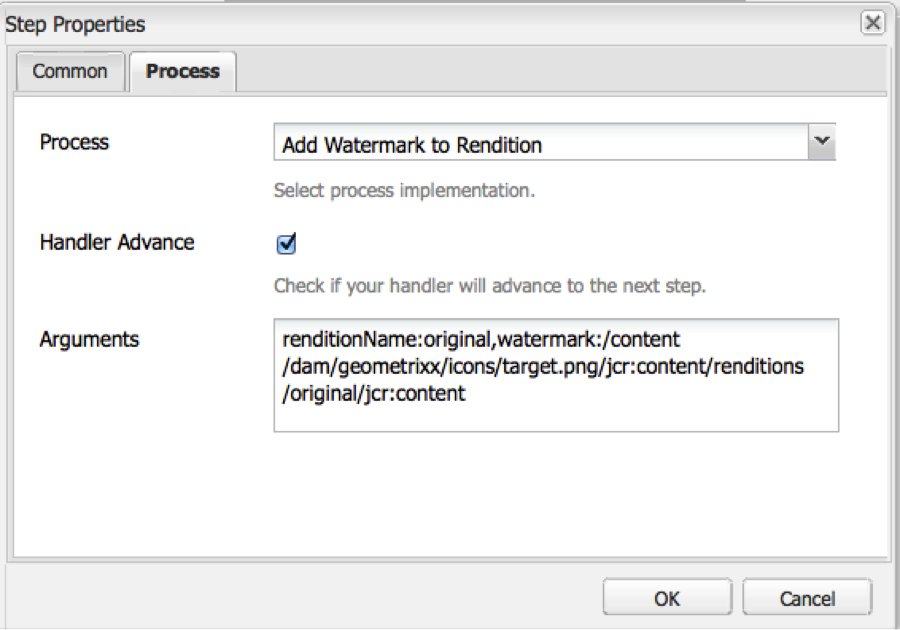
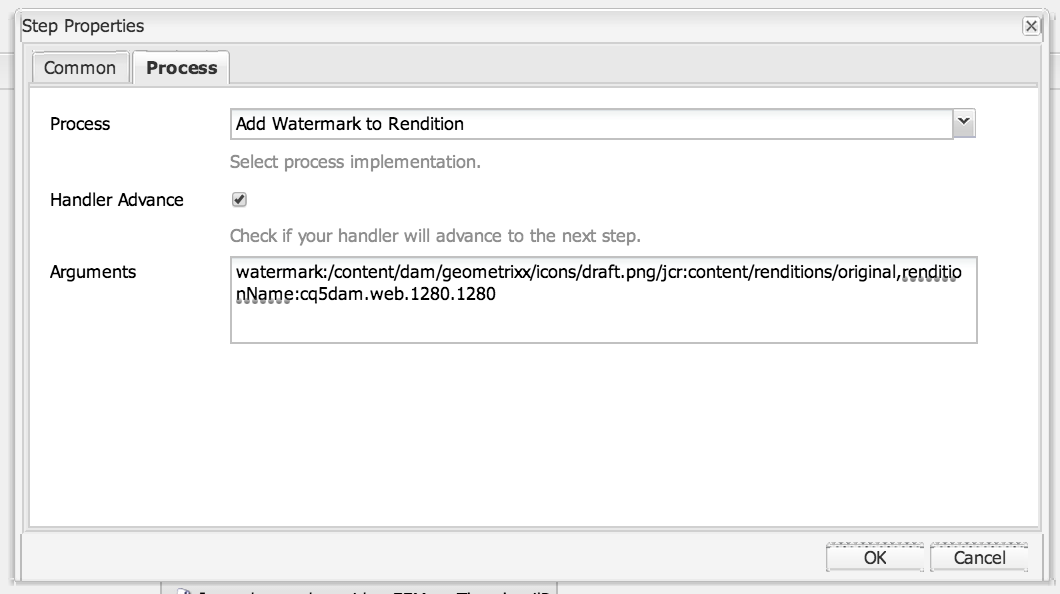
added thumbnail, changed the config in the main page to remove an extraneous jcr:content, and updated the 3rd image showing configuration

Changed region(s): [[0.0, 0.0, 1.0, 1.0], [0.3111, 0.6667, 0.9333, 0.697]]

diff --git a/_posts/2014-02-24-dam-workflow-processes.md b/_posts/2014-02-24-dam-workflow-processes.md
@@ -45,12 +45,12 @@ Path to the workflow: /etc/workflow/models/dam/update_asset.html
 	* Check the Handler Advance option
 	* Two arguments are required
 		1. renditionName: The name of the rendition to modify like “original”
-		2. watermark: The repository path of the watermark like “/content/dam/geometrixx/icons/target.png/jcr:content/renditions/original/jcr:content”
+		2. watermark: The repository path of the watermark like “/content/dam/geometrixx/icons/target.png/jcr:content/renditions/original”
 
 	![image]({{ site.baseurl }}/images/dam-workflow-processes/3.png)
 
         * A full configuration example might have all the following:
-           quality:90,watermark:/content/dam/geometrixx/icons/cube_molecule_preferences.png/jcr:content/renditions/original,renditionName:cq5dam.web.1280.1280
+           watermark:/content/dam/geometrixx/icons/draft.png/jcr:content/renditions/original,renditionName:cq5dam.web.1280.1280
 
 *  Click OK and make sure to click “Save” of the workflow.
 
